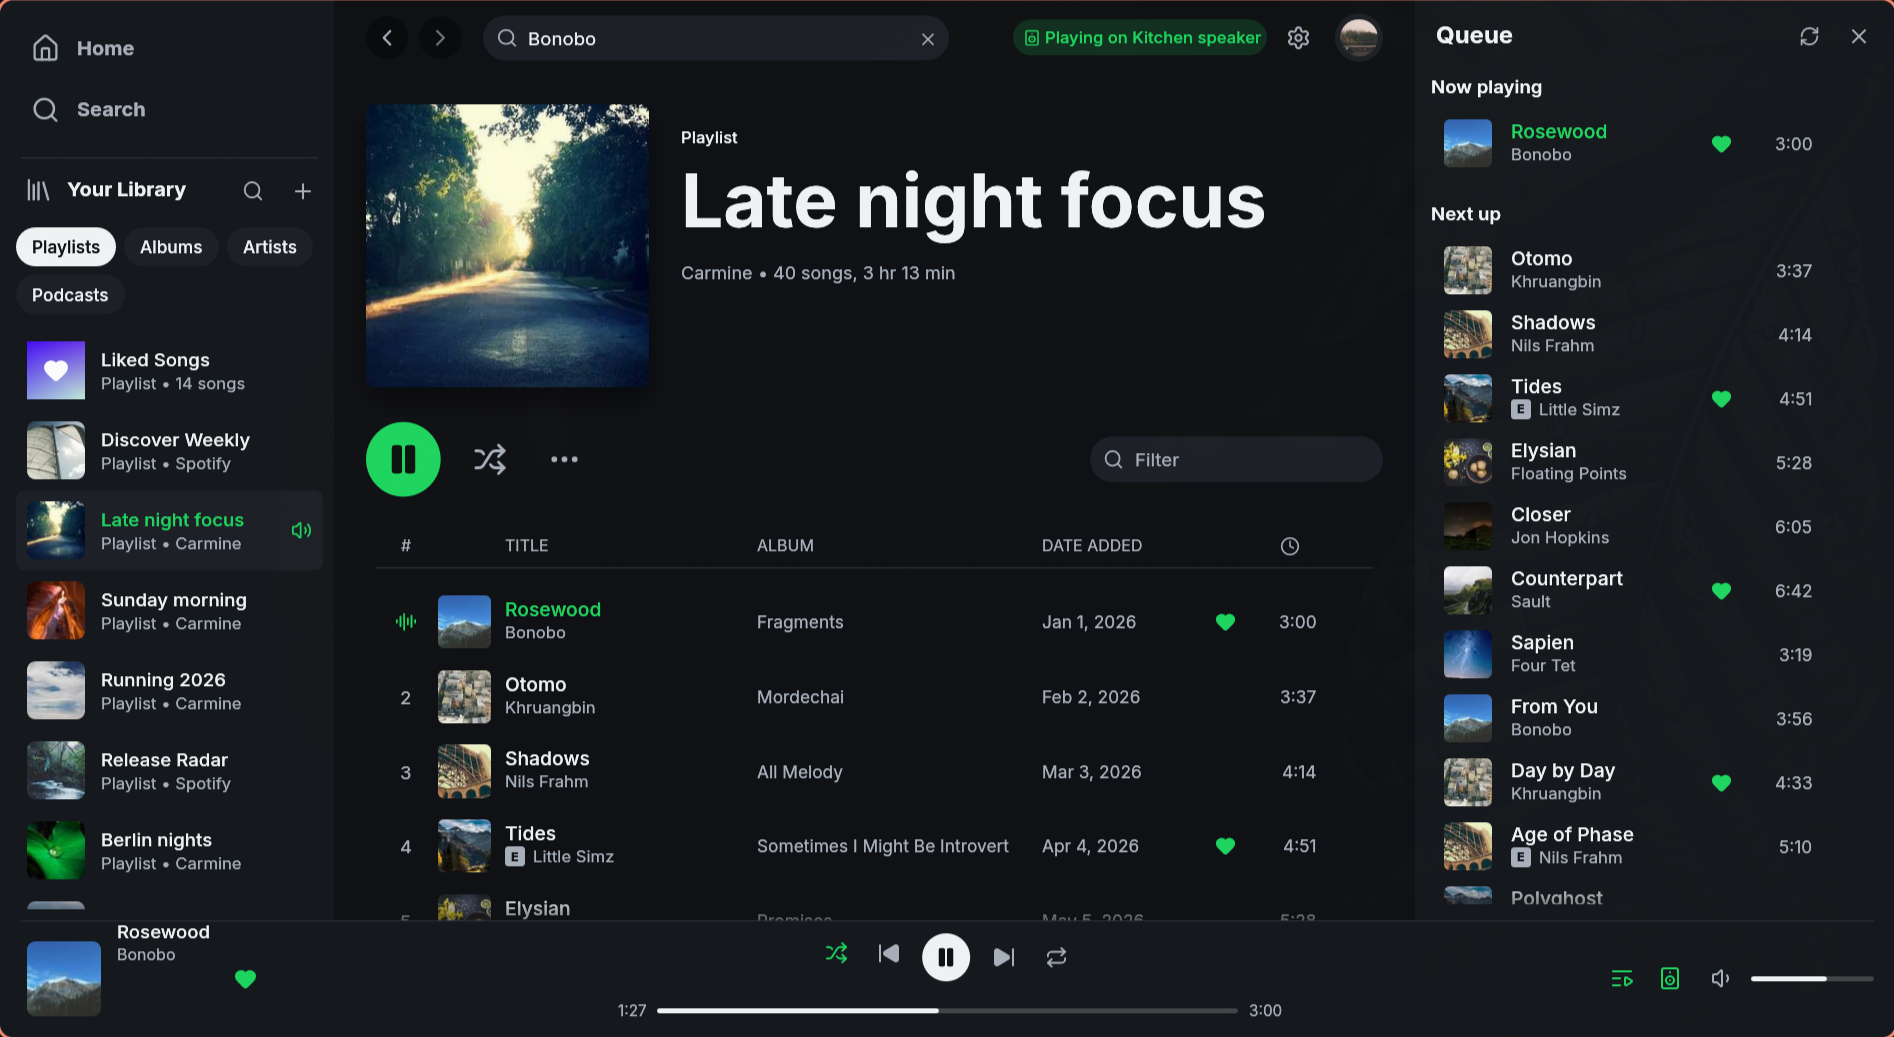
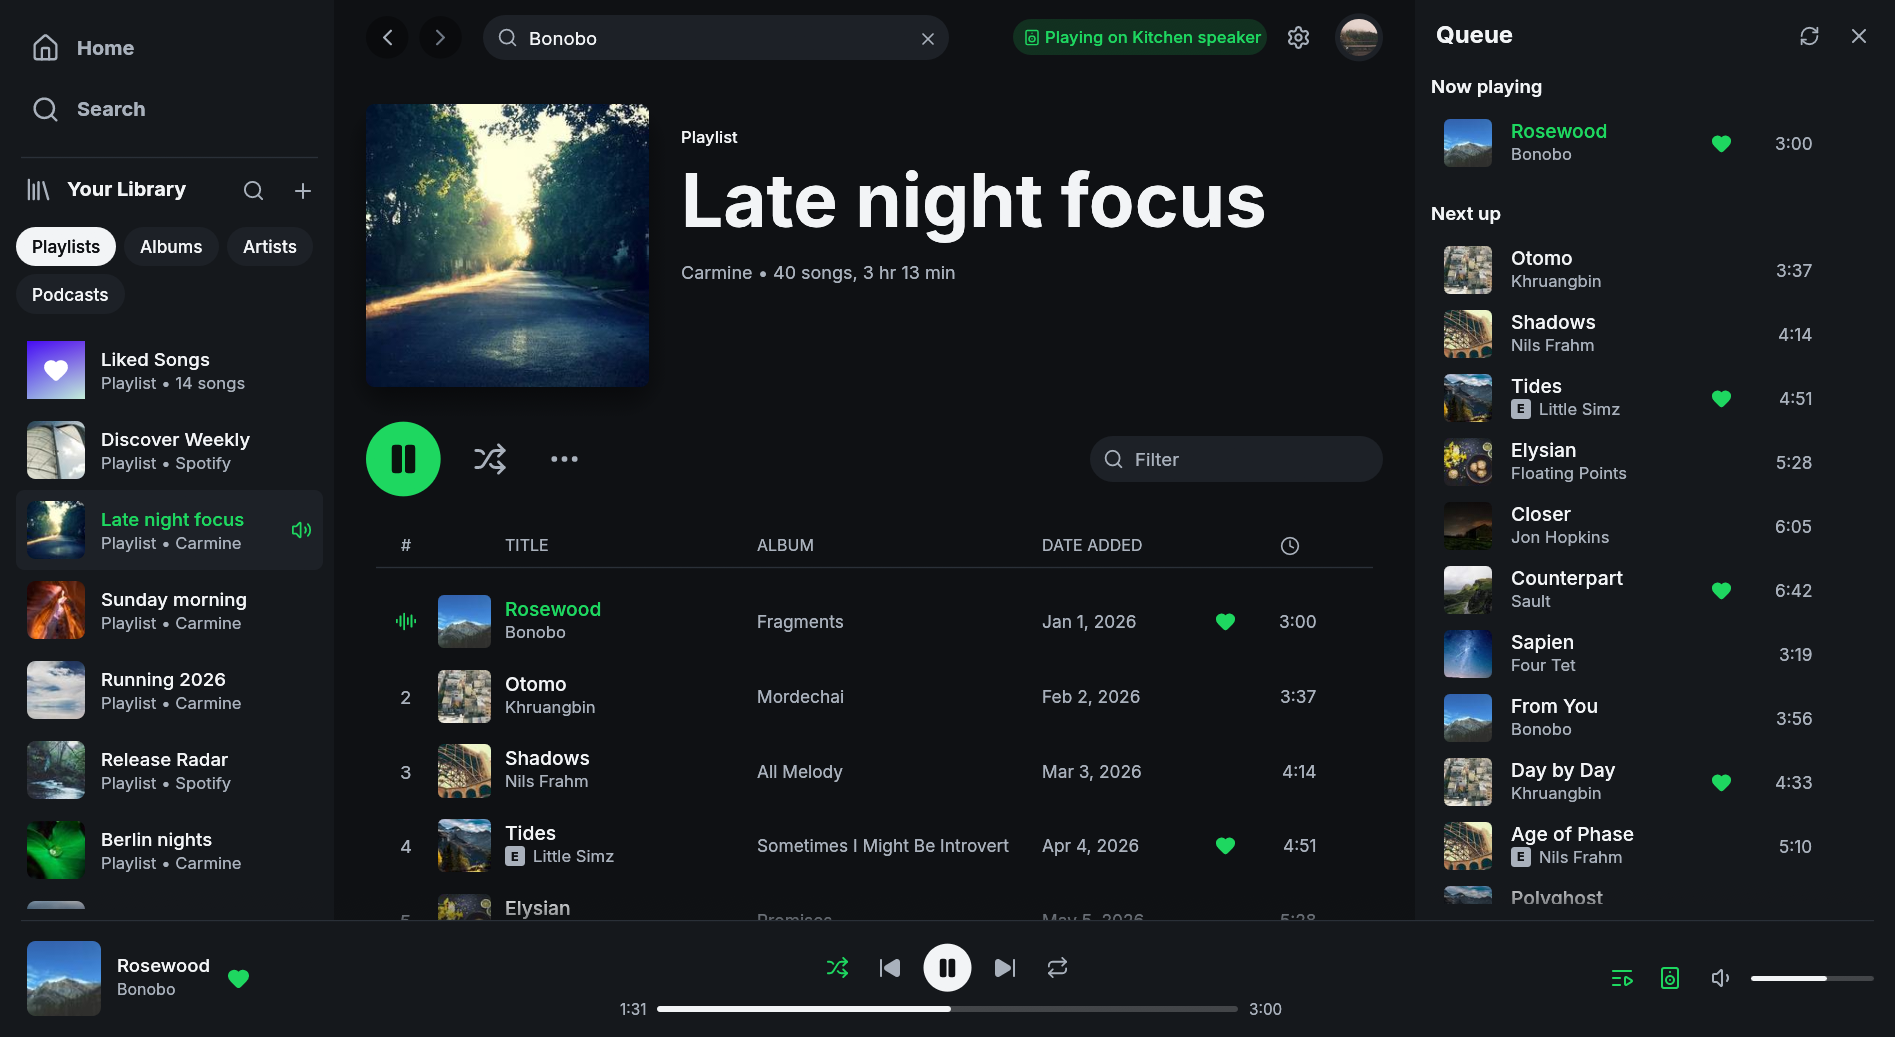
Take screenshots from the app itself
The picture in the README and on the site still showed the player bar before it was aligned, with the love button stranded away from the title.

Demo mode could stage a page but not capture it, so the shot came from whatever the compositor happened to be showing. --demo-shot asks egui for the window's own frame buffer and writes it to a PNG, which needs no screenshot tool, no window rules, and no compositor scripting, and works the same on macOS and Windows. A capture run keeps its own tray icon and MPRIS service out of the way of the real instance.

The sample data now includes a speaker announced over ZeroConf, so the device picker can show the row that offers to hand it the account.

diff --git a/src/main.rs b/src/main.rs
@@ -33,6 +33,20 @@ struct Cli {
     #[cfg(feature = "demo")]
     #[arg(long)]
     demo_show: Option<String>,
+
+    /// Write a PNG of the demo window to this path and exit. Implies
+    /// `--demo`. The shot is the window's own frame buffer, so it is however
+    /// large the window is: full screen where that request is honoured, and
+    /// the size of the tile under a tiling window manager, which decides for
+    /// itself.
+    #[cfg(feature = "demo")]
+    #[arg(long, value_name = "PATH")]
+    demo_shot: Option<std::path::PathBuf>,
+
+    /// How long to let cover art download before the shot is taken.
+    #[cfg(feature = "demo")]
+    #[arg(long, value_name = "MS", default_value_t = 6000)]
+    demo_shot_delay: u64,
 }
 
 fn main() -> eframe::Result<()> {
@@ -63,7 +77,9 @@ fn main() -> eframe::Result<()> {
     // A second launch surfaces the instance already running instead of
     // starting a rival one. Held for the lifetime of the process.
     #[cfg(feature = "demo")]
-    let guarded = !cli.demo;
+    let demo = cli.demo || cli.demo_shot.is_some();
+    #[cfg(feature = "demo")]
+    let guarded = !demo;
     #[cfg(not(feature = "demo"))]
     let guarded = true;
     let instance = if guarded {
@@ -78,22 +94,44 @@ fn main() -> eframe::Result<()> {
         None
     };
 
+    // A capture run is a throwaway process next to the real one: no tray
+    // icon of its own, and no second MPRIS service to fight over media keys.
     #[allow(unused_mut)]
-    let mut app = app::App::new(&waker, dirs, settings, app::AppOptions::default());
+    let mut options = app::AppOptions::default();
+    #[cfg(feature = "demo")]
+    if cli.demo_shot.is_some() {
+        options = app::AppOptions {
+            mpris: false,
+            tray: false,
+        };
+    }
+    #[allow(unused_mut)]
+    let mut app = app::App::new(&waker, dirs, settings, options);
     if let Some(guard) = &instance {
         app.set_show_requests(guard.show_requests());
     }
     #[cfg(feature = "demo")]
-    if cli.demo {
+    if demo {
         fastpotify::demo::populate(&mut app);
         fastpotify::demo::apply_flags(&mut app, cli.demo_page.as_deref(), cli.demo_show.as_deref());
     }
+    #[cfg(feature = "demo")]
+    let shot = cli.demo_shot.clone().map(|path| Shot {
+        path,
+        due: std::time::Instant::now() + std::time::Duration::from_millis(cli.demo_shot_delay),
+        asked: false,
+    });
     let slot = std::sync::Arc::new(std::sync::Mutex::new(Some(app)));
 
     loop {
         let creator_slot = std::sync::Arc::clone(&slot);
         let creator_waker = waker.clone();
-        let options = native_options();
+        #[cfg(feature = "demo")]
+        let creator_shot = shot.clone();
+        #[cfg(feature = "demo")]
+        let options = native_options(shot.is_some());
+        #[cfg(not(feature = "demo"))]
+        let options = native_options(false);
         eframe::run_native(
             "Fastpotify",
             options,
@@ -108,6 +146,8 @@ fn main() -> eframe::Result<()> {
                 Ok(Box::new(Shell {
                     app: Some(app),
                     slot: std::sync::Arc::clone(&creator_slot),
+                    #[cfg(feature = "demo")]
+                    shot: creator_shot.clone(),
                 }))
             }),
         )?;
@@ -161,13 +201,14 @@ fn main() -> eframe::Result<()> {
     Ok(())
 }
 
-fn native_options() -> eframe::NativeOptions {
+fn native_options(fullscreen: bool) -> eframe::NativeOptions {
     eframe::NativeOptions {
         viewport: egui::ViewportBuilder::default()
             .with_title("Fastpotify")
             .with_app_id("fastpotify")
             .with_inner_size([1240.0, 800.0])
             .with_min_inner_size([760.0, 520.0])
+            .with_fullscreen(fullscreen)
             .with_icon(app_icon()),
         // A Wayland compositor stops sending frame callbacks to a hidden
         // window; waiting for vsync there would block the event loop.
@@ -185,6 +226,66 @@ fn native_options() -> eframe::NativeOptions {
 struct Shell {
     app: Option<app::App>,
     slot: std::sync::Arc<std::sync::Mutex<Option<app::App>>>,
+    /// A pending `--demo-shot` capture, if this is a screenshot run.
+    #[cfg(feature = "demo")]
+    shot: Option<Shot>,
+}
+
+/// A screenshot the window still owes us.
+///
+/// Cover art arrives over the network, so the capture waits for `due` before
+/// asking egui for the frame buffer. The image comes back as an input event
+/// on a later frame, which is where it gets written and the window closed.
+#[cfg(feature = "demo")]
+#[derive(Clone)]
+struct Shot {
+    path: std::path::PathBuf,
+    due: std::time::Instant,
+    asked: bool,
+}
+
+#[cfg(feature = "demo")]
+impl Shell {
+    fn drive_shot(&mut self, ctx: &egui::Context) {
+        let Some(shot) = self.shot.as_mut() else {
+            return;
+        };
+
+        // Nothing here is driven by user input, so the frames have to be
+        // asked for: art still has to load and the request has to be issued.
+        ctx.request_repaint();
+
+        if !shot.asked && std::time::Instant::now() >= shot.due {
+            ctx.send_viewport_cmd(egui::ViewportCommand::Screenshot(egui::UserData::default()));
+            shot.asked = true;
+        }
+
+        let image = ctx.input(|input| {
+            input.events.iter().find_map(|event| match event {
+                egui::Event::Screenshot { image, .. } => Some(image.clone()),
+                _ => None,
+            })
+        });
+        let Some(image) = image else {
+            return;
+        };
+
+        let [width, height] = [image.size[0] as u32, image.size[1] as u32];
+        let pixels: Vec<u8> = image
+            .pixels
+            .iter()
+            .flat_map(|pixel| pixel.to_srgba_unmultiplied())
+            .collect();
+        match image::RgbaImage::from_raw(width, height, pixels) {
+            Some(buffer) => match buffer.save(&shot.path) {
+                Ok(()) => log::info!("wrote {}x{} to {}", width, height, shot.path.display()),
+                Err(error) => log::error!("could not write {}: {error}", shot.path.display()),
+            },
+            None => log::error!("the frame buffer did not match {width}x{height}"),
+        }
+        self.shot = None;
+        ctx.send_viewport_cmd(egui::ViewportCommand::Close);
+    }
 }
 
 impl eframe::App for Shell {
@@ -192,6 +293,8 @@ impl eframe::App for Shell {
         if let Some(app) = self.app.as_mut() {
             app.background_frame(ctx);
         }
+        #[cfg(feature = "demo")]
+        self.drive_shot(ctx);
     }
 
     fn ui(&mut self, ui: &mut egui::Ui, _frame: &mut eframe::Frame) {

diff --git a/src/demo.rs b/src/demo.rs
@@ -486,6 +486,15 @@ pub fn populate(app: &mut App) {
             kind: "smartphone".into(),
         },
     ];
+    // A speaker announcing itself over ZeroConf that the account has not
+    // adopted yet, so the device picker shows the row that offers to hand it
+    // the account.
+    app.receivers = vec![crate::zeroconf::Receiver {
+        name: "House Spotify".into(),
+        address: std::net::IpAddr::V4(std::net::Ipv4Addr::new(192, 168, 1, 42)),
+        port: 5555,
+        path: "/zc".into(),
+    }];
     app.remote = Some(RemoteSnapshot {
         state: PlaybackState {
             device: Some(app.devices[1].clone()),

diff --git a/docs/_reference/settings-and-files.md b/docs/_reference/settings-and-files.md
@@ -54,5 +54,21 @@ fastpotify [OPTIONS]
 ## Demo mode
 
 Builds made with `cargo build --features demo` accept `--demo`, which fills
-the interface with sample data and never contacts Spotify, useful for
-screenshots, theming, and interface work. Demo mode never writes settings.
+the interface with sample data, useful for screenshots, theming, and
+interface work. Demo mode never writes settings.
+
+`--demo-page` opens a page, such as `home`, `playlist:pl1`, or `artist:art0`,
+and `--demo-show` adds surfaces on top of it: a comma separated list of
+`queue`, `devices`, `shortcuts`, `create`, and `light`.
+
+`--demo-shot <PATH>` writes the window to a PNG and exits, which is how the
+screenshots in these pages are made:
+
+```
+cargo run --release --features demo -- \
+  --demo-shot docs/screenshot.png --demo-page playlist:pl1 --demo-show queue
+```
+
+The shot is the window's own frame buffer, so it comes out at whatever size
+the window is. `--demo-shot-delay <MS>` sets how long cover art has to arrive
+before the frame is taken.
